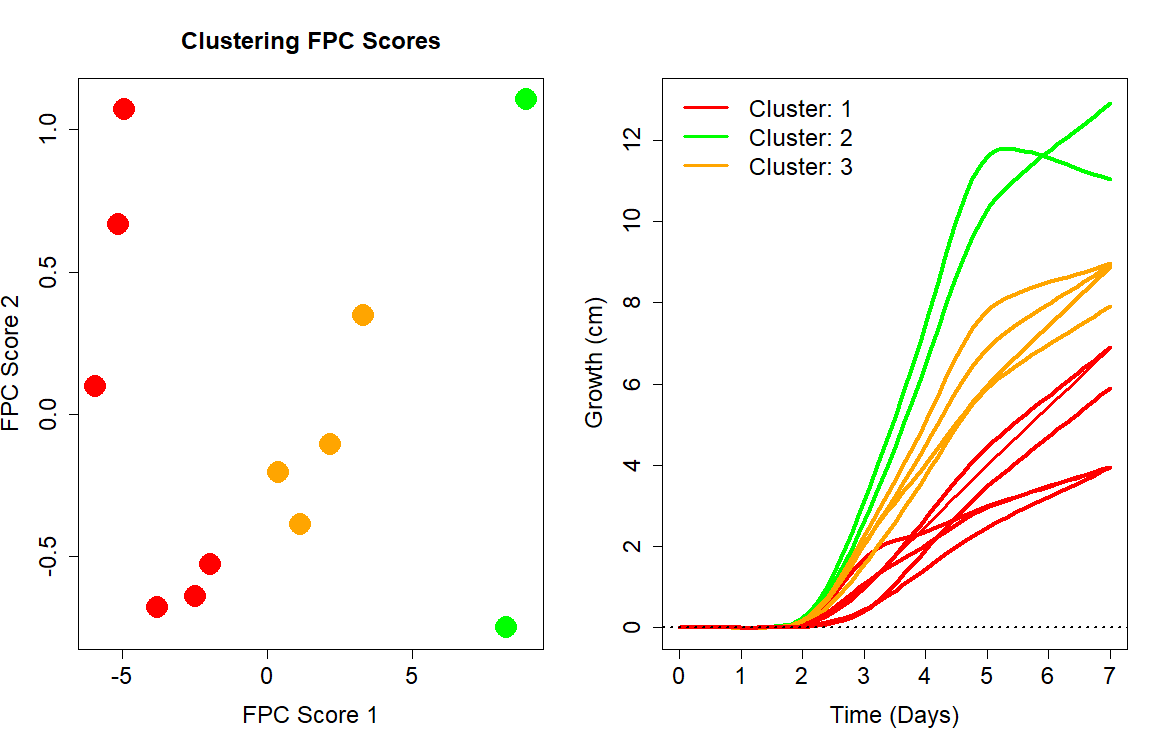
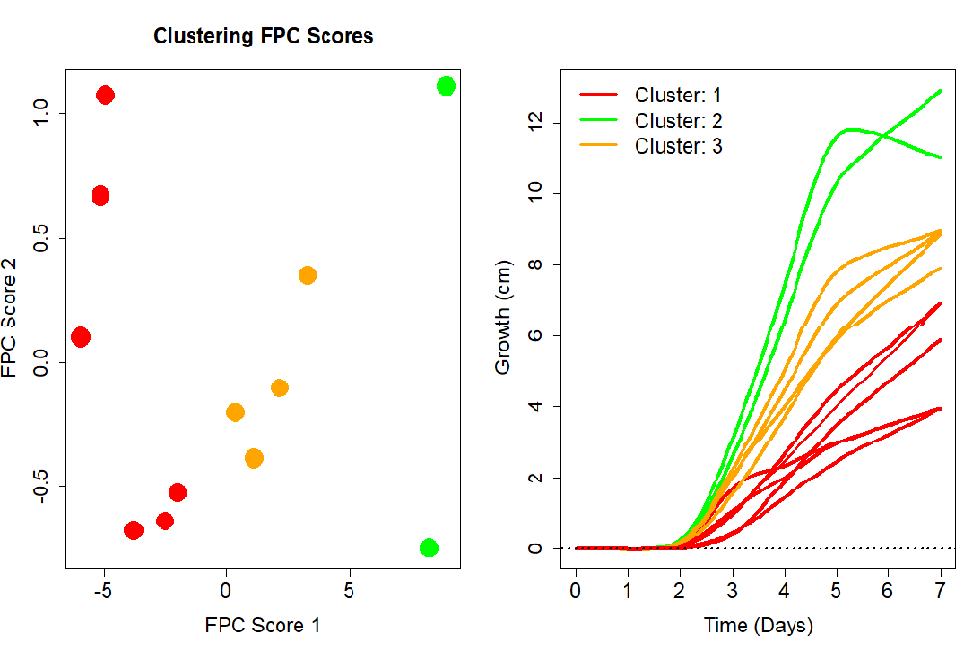
update fda

diff --git a/Functional DOE/Plants Growth/README.md b/Functional DOE/Plants Growth/README.md
@@ -20,7 +20,7 @@ For additional information, you can refer to the link https://community.jmp.com/
 
 
 <div style="text-align: left;">
-  <p>The height of plants is tracked for 7 days since planting, and the maximum height of each pot is recorded on each day as the response of each factors combination, as shown in the design table below.
+  <p>The height of plants is tracked, and the maximum height of each pot is recorded on 6 days as the response of each factors combination, as shown in the design table below.
   </p>
 
 <div align="center">
@@ -46,4 +46,28 @@ For additional information, you can refer to the link https://community.jmp.com/
 ## Height curve as function of time for each pot
 <p align="center">
   <img src="Growth Data.png">
+</p>
+
+## Smoothing the Curves
+<div style="text-align: left;">
+  <p>The first step of fda analysis is to smooth the discrete curves. 
+  </p>
+  <p align="center">
+  <img src="Rplot02.png">
+</p>
+
+## Curve Decomposition and Reconstruction
+<div style="text-align: left;">
+  <p>Once the curve is smoothed it can be decomposed to its principle components. Like PCA, FPCA displays Functional Principal Components Analysis the dominant or modes of variation.
+  </p>
+  <p align="center">
+  <img src="curve-reconstruction.gif">
+</p>
+
+## Curve Clustering
+<div style="text-align: left;">
+  <p>
+  </p>
+  <p align="center">
+  <img src="clustering_fpc_scores.png">
 </p>

diff --git a/Response Surface Methodology (RSM)/README.md b/Response Surface Methodology (RSM)/README.md
@@ -1,3 +1,4 @@
+# Analysis of Central Composite Design
 <p align="center">
   <img src="y1persp.png">
 </p>
